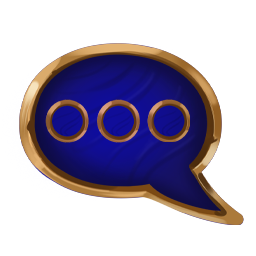
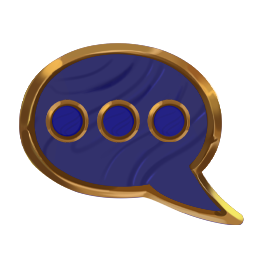
Added some new graphics.

Changed region(s): [[0.0625, 0.1562, 0.9688, 0.875]]

diff --git a/win/win32/winclisrv/GnollHackClient/GnollHackClient/Pages/Game/GamePage.xaml b/win/win32/winclisrv/GnollHackClient/GnollHackClient/Pages/Game/GamePage.xaml
@@ -139,7 +139,7 @@
                             <controls:LabeledImageButton Grid.Column="2" x:Name="lWaitButton" LblText="Wait" BtnLetter="." ImgSourcePath="resource://GnollHackClient.Assets.UI.wait.png" BtnClicked="GHButton_Clicked" />
                             <controls:LabeledImageButton Grid.Column="3" x:Name="lDropManyButton" LblText="Drop Items" BtnLetter="%" ImgSourcePath="resource://GnollHackClient.Assets.UI.dropmany.png" BtnClicked="GHButton_Clicked" />
                             <controls:LabeledImageButton Grid.Column="4" x:Name="lChatButton" LblText="Chat" BtnLetter="C" ImgSourcePath="resource://GnollHackClient.Assets.UI.chat.png" BtnClicked="GHButton_Clicked" />
-                            <controls:LabeledImageButton Grid.Column="5" x:Name="lRepeatButton" LblText="Repeat" BtnLetter="A" BtnCtrl="True" ImgSourcePath="resource://GnollHackClient.Assets.Icons.missing_icon.png" BtnClicked="GHButton_Clicked" />
+                            <controls:LabeledImageButton Grid.Column="5" x:Name="lRepeatButton" LblText="Repeat" BtnLetter="A" BtnCtrl="True" ImgSourcePath="resource://GnollHackClient.Assets.UI.repeat.png" BtnClicked="GHButton_Clicked" />
                             <controls:LabeledImageButton Grid.Column="6" x:Name="lMoreButton" LblText="More" ImgSourcePath="resource://GnollHackClient.Assets.Icons.missing_icon.png" BtnClicked="MoreButton_Clicked" />
                             <!--<Button Grid.Column="5" Text="&#x21BB;" x:Name="RepeatButton" Clicked="RepeatButton_Clicked" CornerRadius="10" FontFamily="DejaVuSansMono" FontSize="20" TextColor="White" BackgroundColor="DarkBlue" HeightRequest="80" />-->
                             <!--<Button Grid.Column="6" Text="&#x2261;" x:Name="MenuButton" Clicked="MenuButton_Clicked" CornerRadius="10" FontFamily="DejaVuSansMono" FontSize="20" TextColor="White" BackgroundColor="DarkBlue" HeightRequest="80" />-->
@@ -165,7 +165,7 @@
                             <controls:LabeledImageButton Grid.Column="0" x:Name="lKickButton" LblText="Kick" BtnLetter="k" ImgSourcePath="resource://GnollHackClient.Assets.UI.kick.png" BtnClicked="GHButton_Clicked" />
                             <controls:LabeledImageButton Grid.Column="1" x:Name="lFireButton" LblText="Fire" BtnLetter="f" ImgSourcePath="resource://GnollHackClient.Assets.UI.fire.png" BtnClicked="GHButton_Clicked" />
                             <controls:LabeledImageButton Grid.Column="2" x:Name="lThrowButton" LblText="Throw" BtnLetter="t" ImgSourcePath="resource://GnollHackClient.Assets.UI.throw.png" BtnClicked="GHButton_Clicked" />
-                            <controls:LabeledImageButton Grid.Column="3" x:Name="lApplyButton" LblText="Apply" BtnLetter="a" ImgSourcePath="resource://GnollHackClient.Assets.Icons.missing_icon.png" BtnClicked="GHButton_Clicked" />
+                            <controls:LabeledImageButton Grid.Column="3" x:Name="lApplyButton" LblText="Apply" BtnLetter="a" ImgSourcePath="resource://GnollHackClient.Assets.UI.apply.png" BtnClicked="GHButton_Clicked" />
                             <controls:LabeledImageButton Grid.Column="4" x:Name="lCastButton" LblText="Cast" BtnLetter="Z" ImgSourcePath="resource://GnollHackClient.Assets.UI.cast.png" BtnClicked="GHButton_Clicked" />
                             <controls:LabeledImageButton Grid.Column="5" x:Name="lZapButton" LblText="Zap" BtnLetter="z" ImgSourcePath="resource://GnollHackClient.Assets.UI.zap.png" BtnClicked="GHButton_Clicked" />
                             <controls:LabeledImageButton Grid.Column="6" x:Name="lSwapWeaponButton" LblText="Swap" BtnLetter="x" ImgSourcePath="resource://GnollHackClient.Assets.UI.swap.png" BtnClicked="GHButton_Clicked" />

diff --git a/win/win32/winclisrv/GnollHackClient/GnollHackClient/Pages/Game/GamePage.xaml.cs b/win/win32/winclisrv/GnollHackClient/GnollHackClient/Pages/Game/GamePage.xaml.cs
@@ -554,9 +554,9 @@ namespace GnollHackClient.Pages.Game
         {
             _contextMenuData.Add(data);
             string icon_string = "";
-            int LastPicked = GHUtils.Meta('<');
+            int LastPickedCmd = GHUtils.Meta('<');
             if (data.cmd_def_char < 0)
-                LastPicked -= 256;
+                LastPickedCmd -= 256;
 
             switch ((char)data.cmd_def_char)
             {
@@ -572,12 +572,18 @@ namespace GnollHackClient.Pages.Game
                 case ',':
                     icon_string = "GnollHackClient.Assets.UI.pickup.png";
                     break;
+                case '<':
+                    icon_string = "GnollHackClient.Assets.UI.stairs-up.png";
+                    break;
+                case '>':
+                    icon_string = "GnollHackClient.Assets.UI.stairs-down.png";
+                    break;
                 case ':':
                     icon_string = "GnollHackClient.Assets.UI.search.png";
                     break;
                 default:
-                    if (data.cmd_def_char == LastPicked)
-                        icon_string = "GnollHackClient.Assets.UI.inventory.png";
+                    if (data.cmd_def_char == LastPickedCmd)
+                        icon_string = "GnollHackClient.Assets.UI.lastitem.png";
                     else
                         icon_string = "GnollHackClient.Assets.Icons.missing_icon.png";
                     break;
